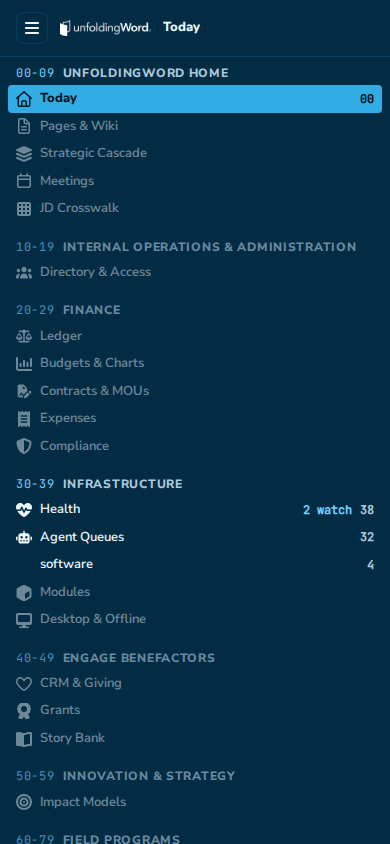
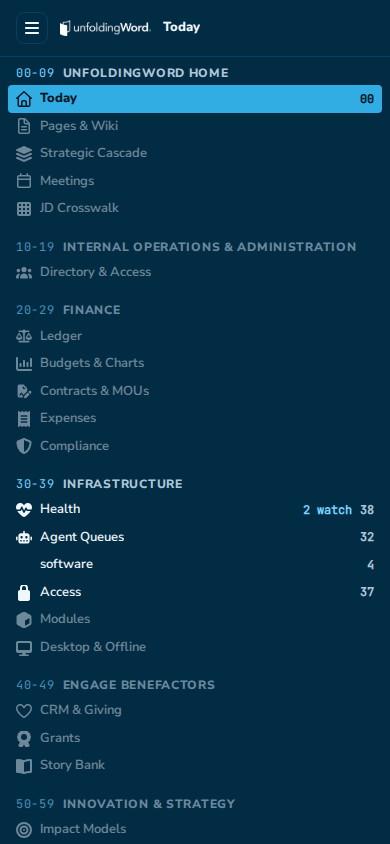
test(acl): the Access pictures, and the tests follow the seeded names (#154)
The people module now owns person_audit as well; the seeded test people carry
their email as their name; the phone menu gains the Access entry.

Changed region(s): [[0.0308, 0.6777, 0.6154, 1.0], [0.9231, 0.6777, 0.9538, 0.7085]]

diff --git a/apps/uw-app/views/access.pg.test.ts b/apps/uw-app/views/access.pg.test.ts
@@ -104,8 +104,8 @@ async function orgAdminSeesEverything(db: Database): Promise<void> {
   await scene(db);
   const { document, text } = await documentFor(db, ROWAN);
   const grants = rowsOf(document, 'Who has access');
-  expect(grants).toContain(`infra.admin${INFRA.email} | admin | 30-39 Infrastructure`);
-  expect(grants).toContain(`tech.editor${TECH.email} | editor | 80-89 Tech & SLR`);
+  expect(grants).toContain(`${INFRA.email}${INFRA.email} | admin | 30-39 Infrastructure`);
+  expect(grants).toContain(`${TECH.email}${TECH.email} | editor | 80-89 Tech & SLR`);
   expect(grants.some((row) => row.includes('admin | Whole organization'))).toBe(true);
   expect(rowsOf(document, 'Waiting for access').map((row) => row.split(' | ')[1])).toEqual([
     'No access yet',
@@ -122,8 +122,8 @@ async function areaAdminStaysInTheirArea(db: Database): Promise<void> {
   await scene(db);
   const { document, text } = await documentFor(db, INFRA.email);
   expect(rowsOf(document, 'Who has access')).toEqual([
-    `infra.admin${INFRA.email} | admin | 30-39 Infrastructure`,
-    `tech.editor${TECH.email} | viewer | 30-39 Infrastructure`,
+    `${INFRA.email}${INFRA.email} | admin | 30-39 Infrastructure`,
+    `${TECH.email}${TECH.email} | viewer | 30-39 Infrastructure`,
   ]);
   expect(text).not.toContain('80-89 Tech');
   expect(scopeChoices(document)).toEqual(['30-39 Infrastructure']);
@@ -148,8 +148,8 @@ async function memberSeesOwnGrants(db: Database): Promise<void> {
   await scene(db);
   const { document, text } = await documentFor(db, TECH.email);
   expect(rowsOf(document, 'Who has access')).toEqual([
-    `tech.editor${TECH.email} | editor | 80-89 Tech & SLR`,
-    `tech.editor${TECH.email} | viewer | 30-39 Infrastructure`,
+    `${TECH.email}${TECH.email} | editor | 80-89 Tech & SLR`,
+    `${TECH.email}${TECH.email} | viewer | 30-39 Infrastructure`,
   ]);
   expect(document.querySelector('form[data-command]')).toBeNull();
   expect(text).not.toContain('Waiting for access');
@@ -168,7 +168,7 @@ async function grantAndRevokeShowInPlace(db: Database): Promise<void> {
   expect(made['status']).toBe('accepted');
   const after = await documentFor(db, INFRA.email);
   expect(rowsOf(after.document, 'Who has access')).toContain(
-    `new.mate${FRESH.email} | viewer | 30-39 Infrastructure`,
+    `${FRESH.email}${FRESH.email} | viewer | 30-39 Infrastructure`,
   );
   expect(rowsOf(after.document, 'Waiting for access').join()).not.toContain(FRESH.email);
   const revoked = await send(db, INFRA.email, {

diff --git a/apps/uw-app/auth/principal.pg.test.ts b/apps/uw-app/auth/principal.pg.test.ts
@@ -3,7 +3,7 @@ import { beforeAll, describe, expect, it } from 'vitest';
 import type { Database } from '@uw/db/client';
 import { parsePrincipal, type Principal } from '@uw/core/principal';
 import { getTableName } from 'drizzle-orm';
-import { people } from '@uw/db/schema';
+import { people, personAudit } from '@uw/db/schema';
 import { owns } from '../people/directory.ts';
 import { createApp } from '../app.tsx';
 import {
@@ -147,8 +147,8 @@ describe.skipIf(!testServer)('the pending page', () => {
 });
 
 describe('FD-7 the people directory is the one writer of people', () => {
-  it('declares exactly the people table as owned', () => {
-    expect(owns).toEqual([getTableName(people)]);
+  it('declares exactly the people table and its audit as owned', () => {
+    expect(owns).toEqual([getTableName(people), getTableName(personAudit)]);
   });
 });
 
